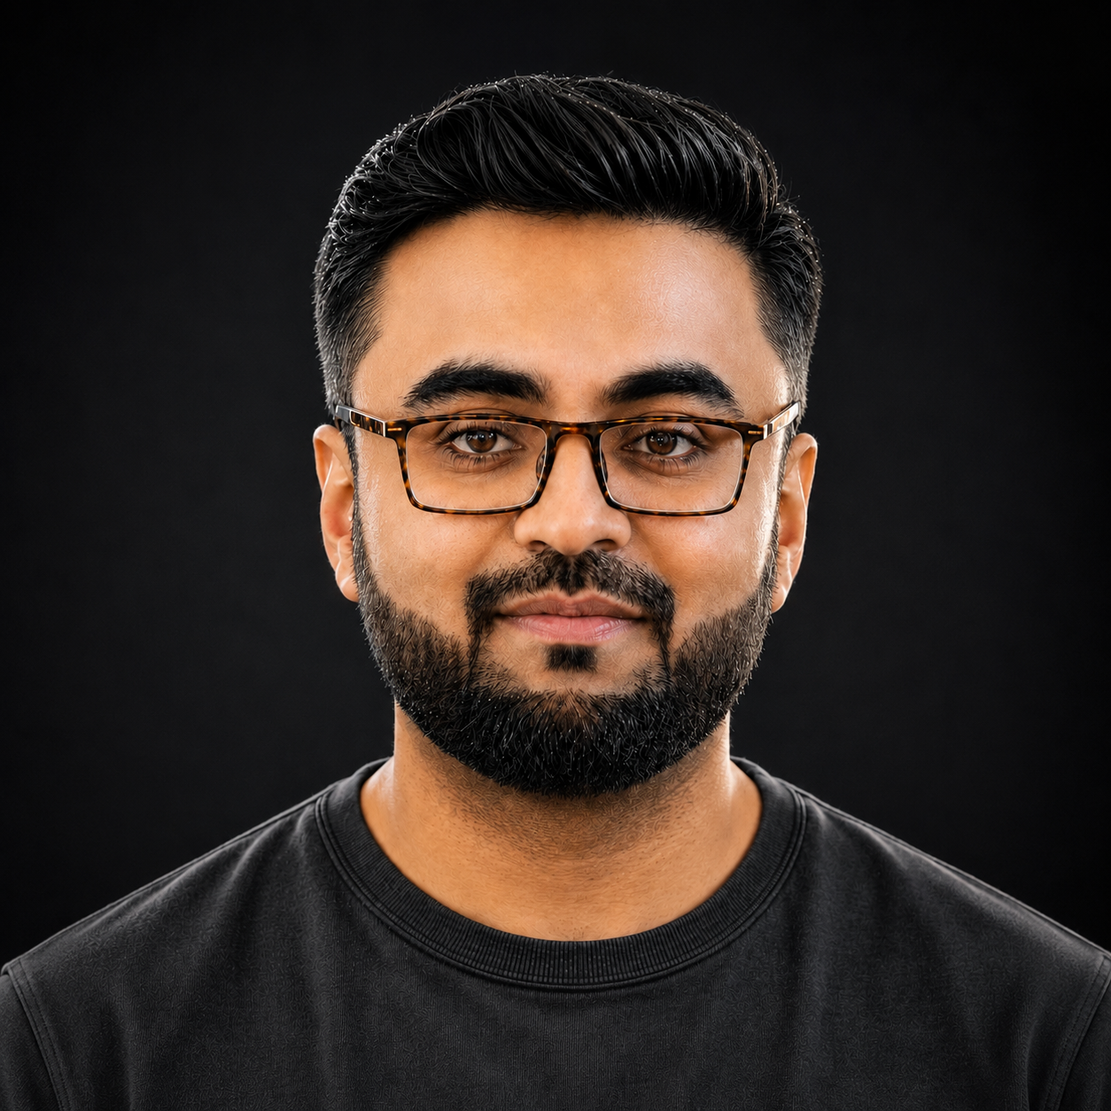
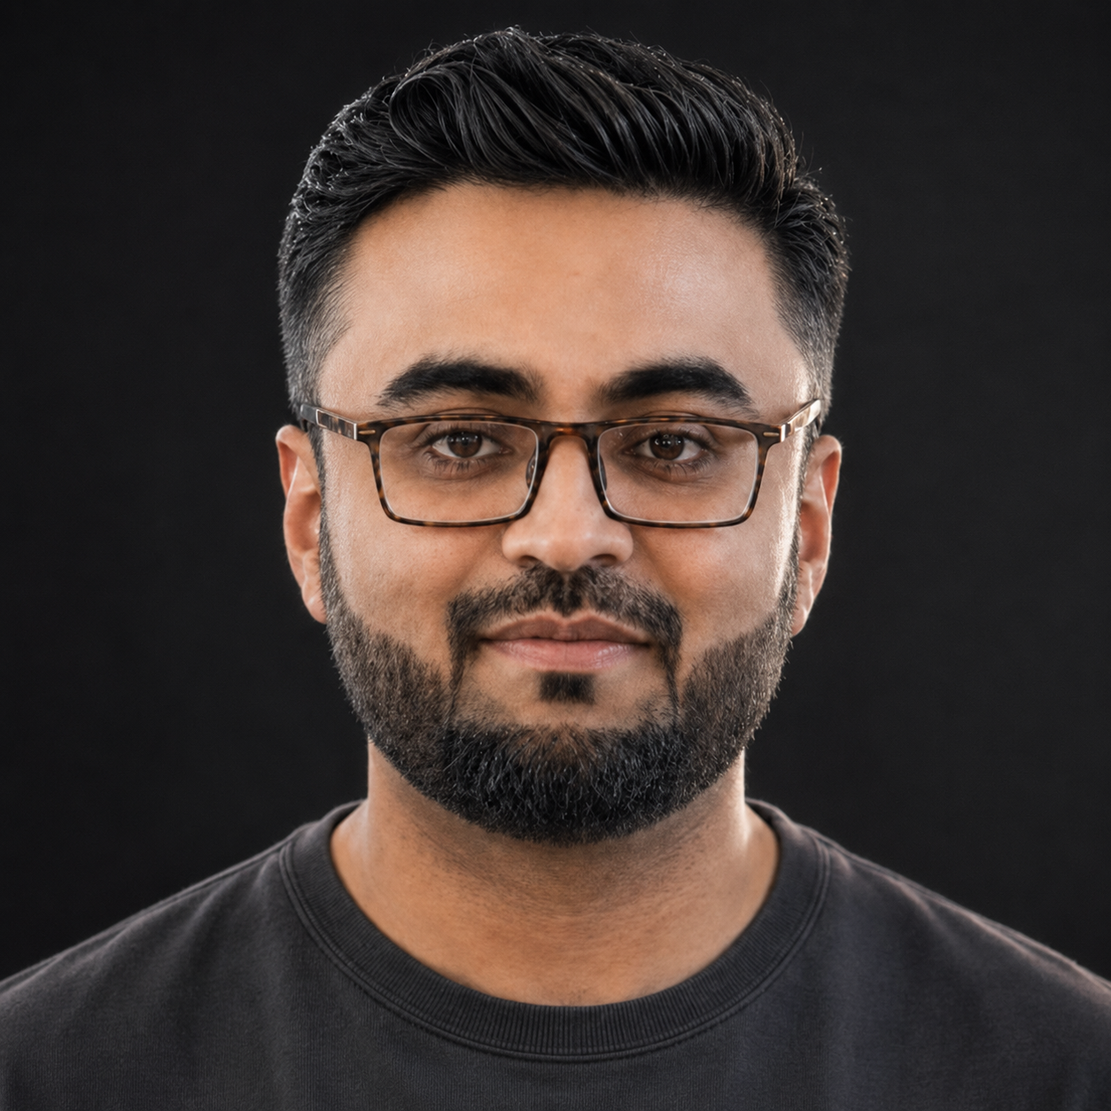
Update site to AI marketing positioning and current resume
Replace the ML-engineer version of the site with the marketing-focused
redesign, and align all content with the current resume:

- Role retitled to Technical Marketing Manager (Digital Warriors + hero)
- Capabilities recut to Performance Marketing, CRM & Automation,
  AI-Powered Marketing, Analytics & KPIs
- Growth section adds Meta Ads / Google Ads paid media row; metric
  ribbon now CTR, CPC, CPL, CVR, appointment rate, ROAS
- Skills regrouped to match the resume's four skill areas
- Experience bullets updated for all roles; education date simplified
- Metadata title, description and keywords updated for the new
  positioning; refreshed portrait and stylesheet

Claude-Session: https://claude.ai/code/session_01GNFiGoDcpkzP3N7UkKfKG4

diff --git a/app/page.tsx b/app/page.tsx
@@ -1,25 +1,78 @@
 import Image from "next/image";
 
-const aiCapabilities = [
-  ["01", "Production AI", "End-to-end AI delivery from data pipelines and model development through evaluation, monitoring, and deployment.", "LLM workflows · RAG · AI agents"],
-  ["02", "Intelligent Retrieval", "Semantic systems built around robust ingestion, embeddings, vector databases, and relevance-focused search.", "Embeddings · Vector DBs · Search"],
-  ["03", "Predictive Systems", "Machine-learning solutions for prediction and recommendation, designed for measurable product value.", "Prediction · Recommendation · Evaluation"],
-  ["04", "Software Leadership", "Hands-on technical direction across engineering teams, Agile delivery, backend systems, and product execution.", "Leadership · Backend · Agile"],
+const capabilities = [
+  ["01", "Performance Marketing", "Meta Ads and Google Ads campaigns across B2B and B2C, built to turn media spend into qualified leads, booked appointments, and revenue.", "Meta Ads · Google Ads · B2B & B2C"],
+  ["02", "CRM & Automation", "GoHighLevel funnels and SAP Cloud workflows for nurturing, follow-ups, appointment reminders, and pipeline movement that run without manual chasing.", "GoHighLevel · SAP Cloud · Pipelines"],
+  ["03", "AI-Powered Marketing", "LLMs, AI agents, and personalisation applied to lead response, qualification, engagement, and retention at campaign scale.", "LLMs · AI agents · Personalisation"],
+  ["04", "Analytics & KPIs", "CTR, CPC, CPL, conversion rate, appointment rate, and ROAS tracked end to end—so every decision to scale or cut is grounded in data.", "CPL · CVR · Appointment rate · ROAS"],
 ];
 
-const paidMedia = [
-  ["Platform proficiency", "Facebook & Meta Ads", "Campaign architecture across awareness, consideration, conversion, retargeting, and lookalike audiences—with disciplined budget allocation and bidding.", "Campaigns · Audiences · Bidding"],
-  ["Performance intelligence", "Analytics that explain", "Interpret CTR, CPC, CPA, ROAS, conversion rate, and attribution signals to diagnose performance drops and identify scalable winners.", "CTR · CPA · ROAS · Attribution"],
-  ["Experimentation", "Structured A/B testing", "Methodical tests across creative, ad copy, audiences, offers, placements, and landing pages—one clear hypothesis at a time.", "Creative · Copy · Landing pages"],
-  ["Cross-channel execution", "DSP & social strategy", "Audience targeting, campaign structures, pacing, frequency, and optimization across demand-side platforms and paid social networks.", "DSPs · Paid social · Targeting"],
+const growth = [
+  ["Paid media", "Meta Ads & Google Ads", "B2B and B2C campaigns structured around qualified lead volume and cost efficiency—including dental and healthcare lead-generation workflows.", "Meta · Google · Search & social"],
+  ["Lead generation", "Pipeline that fills itself", "Campaigns engineered to produce qualified leads and booked appointments, with lead quality judged on what converts—not on form fills.", "Leads · Appointments · Lead quality"],
+  ["Funnel management", "Conversion optimisation", "Landing pages, offers, and messaging tested one hypothesis at a time to lift conversion rate at every stage of the customer journey.", "Funnels · Offers · CRO"],
+  ["Lifecycle automation", "Nurture that never sleeps", "GoHighLevel email and SMS sequences, reminder logic, and re-engagement workflows that keep every enquiry moving toward a booking.", "Email · SMS · Reminders"],
+  ["Performance intelligence", "KPIs that explain", "CTR, CPC, CPL, conversion rate, appointment rate, and ROAS tracked end to end to improve media efficiency, revenue, and customer-base growth.", "CTR · CPC · CPL · ROAS"],
 ];
+
+const skillGroups = [
+  ["Performance Marketing", ["Meta Ads", "Google Ads", "B2B & B2C campaigns", "Lead generation", "Appointment setting", "Revenue growth", "Funnel optimisation", "Conversion optimisation"]],
+  ["CRM & Automation", ["GoHighLevel", "SAP Cloud", "CRM pipelines", "Lead nurturing", "Email & SMS workflows", "Marketing automation"]],
+  ["Analytics & KPIs", ["CTR", "CPC", "CPL", "Conversion rate", "ROAS", "Lead quality", "Appointment rate", "Revenue & funnel performance"]],
+  ["AI & Technical", ["LLMs", "AI agents", "Python", "JavaScript", "Node.js", "APIs", "PostgreSQL", "Machine learning", "Data analytics", "Agile project management"]],
+] as const;
 
 const experience = [
-  ["2024—NOW", "Machine Learning Engineer", "3DEX"],
-  ["2021—2023", "Software Engineering Team Lead", "Digital Warriors"],
-  ["2020—2021", "Back End Developer", "MicroAgility Services"],
-  ["2017—2020", "Back End Developer", "Digital Cervello"],
-  ["2016—2017", "Software Engineer", "TECHNOGENES"],
+  {
+    date: "APR 2024 — NOW",
+    place: "Irvine, California, USA · Remote",
+    role: "AI Marketing Leader",
+    company: "3DEX",
+    points: [
+      "Lead B2B and B2C performance campaigns across Meta Ads and Google Ads, focused on qualified lead generation, customer acquisition, booked appointments, and revenue growth.",
+      "Build and optimise GoHighLevel CRM funnels, lead nurturing, follow-ups, appointment reminders, and pipeline automation to move prospects from enquiry to booked appointment and conversion.",
+      "Use AI-powered automation, personalisation, and data-driven workflows to improve lead response, engagement, conversion, and customer retention.",
+      "Track and optimise CTR, CPC, CPL, conversion rate, appointment rate, and ROAS, using performance data to improve media efficiency, revenue, and customer-base growth.",
+    ],
+  },
+  {
+    date: "MAR 2021 — NOV 2023",
+    place: "Islamabad, Pakistan",
+    role: "Technical Marketing Manager",
+    company: "Digital Warriors",
+    points: [
+      "Led cross-functional marketing and technical projects, coordinating campaign requirements, delivery teams, timelines, and client expectations.",
+      "Managed B2B and B2C lead-generation campaigns, CRM processes, and marketing automation, with emphasis on qualified leads, appointment generation, and commercial outcomes.",
+      "Partnered with marketing, sales, and technical teams to analyse campaign KPIs, improve lead quality and conversion performance, and strengthen customer acquisition.",
+    ],
+  },
+  {
+    date: "JAN 2020 — FEB 2021",
+    place: "Islamabad, Pakistan",
+    role: "Back End Developer",
+    company: "MicroAgility Services (Pvt) Ltd.",
+    points: [
+      "Developed Node.js backend applications, APIs, and automation supporting customer-facing digital solutions and business workflows.",
+    ],
+  },
+  {
+    date: "NOV 2017 — JAN 2020",
+    place: "Islamabad, Pakistan",
+    role: "Back End Developer",
+    company: "Digital Cervello",
+    points: [
+      "Built and maintained Node.js/JavaScript backend systems and supported AI-enabled automation and scalable digital products.",
+    ],
+  },
+  {
+    date: "AUG 2016 — SEP 2017",
+    place: "Lahore, Pakistan",
+    role: "Software Engineer",
+    company: "TECHNOGENES",
+    points: [
+      "Developed software solutions and gained early hands-on experience in machine learning, AI, and data-driven applications.",
+    ],
+  },
 ];
 
 export default function Home() {
@@ -30,7 +83,7 @@ export default function Home() {
       <nav className="site-nav" aria-label="Primary navigation">
         <a className="wordmark" href="#top" aria-label="Syed Jaffar Raza home">SJR<i /></a>
         <div className="nav-links">
-          <a href="#expertise">Expertise</a><a href="#paid-media">Paid media</a><a href="#experience">Experience</a>
+          <a href="#capabilities">Capabilities</a><a href="#growth">Growth</a><a href="#skills">Skills</a><a href="#experience">Experience</a>
         </div>
         <a className="nav-cta" href="https://www.linkedin.com/in/jaffarrazasyed" target="_blank" rel="noreferrer">Let&apos;s connect ↗</a>
       </nav>
@@ -38,45 +91,73 @@ export default function Home() {
       <section className="hero" id="top">
         <div className="grid-bg" aria-hidden="true" /><div className="orb" aria-hidden="true" />
         <div className="hero-copy">
-          <p className="eyebrow reveal d1"><span className="status-dot" />Islamabad · Available for ambitious work</p>
-          <h1 className="reveal d2">Engineering intelligence.<br /><span>Scaling attention.</span></h1>
-          <p className="intro reveal d3">I&apos;m <strong>Syed Jaffar Raza</strong>—an AI software engineer building production-grade intelligent systems and applying performance thinking across paid digital growth.</p>
-          <div className="hero-actions reveal d4"><a className="button primary" href="#expertise">Explore my work ↓</a><a className="button ghost" href="https://www.linkedin.com/in/jaffarrazasyed" target="_blank" rel="noreferrer">LinkedIn ↗</a></div>
+          <p className="eyebrow reveal d1"><span className="status-dot" />Islamabad, Pakistan · Available for ambitious work</p>
+          <h1 className="reveal d2">Marketing that converts.<br /><span>Systems that scale.</span></h1>
+          <p className="intro reveal d3">I&apos;m <strong>Syed Jaffar Raza</strong>—an AI marketing leader and technical marketing manager with 9+ years across B2B and B2C growth, lead generation, appointment booking, campaign management, and CRM automation.</p>
+          <div className="hero-actions reveal d4"><a className="button primary" href="#capabilities">Explore my work ↓</a><a className="button ghost" href="https://www.linkedin.com/in/jaffarrazasyed" target="_blank" rel="noreferrer">LinkedIn ↗</a></div>
         </div>
         <aside className="portrait-wrap reveal d4" aria-label="Portrait and professional snapshot">
           <div className="portrait-ring" aria-hidden="true" />
           <div className="portrait-frame">
             <Image src={`${basePath}/syed-jaffar-raza.png`} alt="Portrait of Syed Jaffar Raza" width={1254} height={1254} priority unoptimized />
             <div className="portrait-shade" aria-hidden="true" />
-            <p className="portrait-name"><small>AI SOFTWARE ENGINEER</small><strong>Syed Jaffar Raza</strong></p>
+            <p className="portrait-name"><small>AI MARKETING LEADER</small><strong>Syed Jaffar Raza</strong></p>
           </div>
-          <div className="floating-badge badge-top"><span>9+</span><small>YEARS IN<br />SOFTWARE</small></div>
+          <div className="floating-badge badge-top"><span>9+</span><small>YEARS IN MARKETING<br />&amp; TECHNOLOGY</small></div>
           <div className="floating-badge badge-bottom"><i /><small>AVAILABLE FOR<br />COLLABORATION</small></div>
-          <div className="focus-strip"><span>RAG</span><span>AI AGENTS</span><span>META ADS</span></div>
+          <div className="focus-strip"><span>META ADS</span><span>GOOGLE ADS</span><span>GOHIGHLEVEL</span></div>
         </aside>
-        <div className="hero-foot"><span>AI SOFTWARE ENGINEER</span><b>×</b><span>PERFORMANCE MARKETING</span><b>×</b><span>PRODUCT DELIVERY</span></div>
+        <div className="hero-foot"><span>AI MARKETING LEADER</span><b>×</b><span>TECHNICAL MARKETING MANAGER</span><b>×</b><span>B2B &amp; B2C GROWTH</span></div>
       </section>
 
-      <section className="section expertise" id="expertise">
-        <div className="section-head"><p className="index">01 / CORE EXPERTISE</p><h2>From model to <em>momentum.</em></h2><p>I connect rigorous engineering with real-world delivery—building systems that are useful, observable, and ready to scale.</p></div>
-        <div className="cards">{aiCapabilities.map(([n,t,d,tags]) => <article className="card" key={n}><div className="card-num"><span>{n}</span><b>↗</b></div><h3>{t}</h3><p>{d}</p><small>{tags}</small></article>)}</div>
+      <section className="section expertise" id="capabilities">
+        <div className="section-head"><p className="index">01 / CORE CAPABILITIES</p><h2>From media spend to <em>booked revenue.</em></h2><p>AI-driven marketing and technology professional connecting paid media, CRM automation, and engineering rigour—turning spend into qualified leads, booked appointments, and a stronger customer base.</p></div>
+        <div className="cards">{capabilities.map(([n,t,d,tags]) => <article className="card" key={n}><div className="card-num"><span>{n}</span><b>↗</b></div><h3>{t}</h3><p>{d}</p><small>{tags}</small></article>)}</div>
       </section>
 
-      <section className="section paid" id="paid-media">
-        <div className="section-head"><p className="index">02 / GROWTH & PERFORMANCE</p><h2>Paid media with an <em>engineering mindset.</em></h2><p>Clean campaign structures, measurable hypotheses, and decisions grounded in performance data—not guesswork.</p></div>
-        <div className="media-list">{paidMedia.map(([k,t,d,s], i) => <article className="media-row" key={t}><span className="media-num">0{i+1}</span><div><small>{k}</small><h3>{t}</h3></div><p>{d}</p><b>{s}</b></article>)}</div>
-        <div className="metric-ribbon"><span>CTR</span><i /><span>CPA</span><i /><span>ROAS</span><i /><span>CVR</span><i /><span>ATTRIBUTION</span><i /><span>FREQUENCY</span></div>
+      <section className="section paid" id="growth">
+        <div className="section-head"><p className="index">02 / GROWTH & PERFORMANCE</p><h2>Demand generation with an <em>engineering mindset.</em></h2><p>Clean funnel structures, measurable hypotheses, and continuous KPI optimisation—decisions grounded in lead quality and conversion data, not guesswork.</p></div>
+        <div className="media-list">{growth.map(([k,t,d,s], i) => <article className="media-row" key={t}><span className="media-num">0{i+1}</span><div><small>{k}</small><h3>{t}</h3></div><p>{d}</p><b>{s}</b></article>)}</div>
+        <div className="metric-ribbon"><span>CTR</span><i /><span>CPC</span><i /><span>CPL</span><i /><span>CVR</span><i /><span>APPOINTMENT RATE</span><i /><span>ROAS</span></div>
       </section>
 
-      <section className="section systems"><p className="index">03 / TECHNOLOGY</p><div className="systems-grid"><h2>A versatile stack for <em>intelligent products.</em></h2><div className="stack">{["Python","Node.js","JavaScript","React.js","PostgreSQL","LLMs","RAG","Vector databases","Semantic search","Prompt engineering","Machine learning","AI APIs"].map((x,i)=><span className={i<5?"hot":""} key={x}>{x}</span>)}</div></div></section>
+      <section className="section systems" id="skills">
+        <p className="index">03 / CORE SKILLS</p>
+        <div className="systems-grid">
+          <h2>A full stack for <em>modern growth.</em></h2>
+          <div className="stack-groups">{skillGroups.map(([label, items]) => <div className="stack-group" key={label}><small>{label}</small><div className="stack">{items.map(x => <span key={x}>{x}</span>)}</div></div>)}</div>
+        </div>
+      </section>
 
       <section className="section experience" id="experience">
         <div className="section-head compact"><p className="index">04 / EXPERIENCE</p><h2>Built through <em>progression.</em></h2></div>
-        <div className="timeline">{experience.map(([date,role,company],i)=><article key={company}><span>0{i+1}</span><time>{date}</time><h3>{role}</h3><p>{company}</p></article>)}</div>
-        <div className="education"><small>EDUCATION</small><div><h3>Bachelor&apos;s in Computer Software Engineering</h3><p>Bahria University · 2012—2016</p></div><strong>BU</strong></div>
+        <div className="timeline">{experience.map((job, i) => (
+          <article key={job.company}>
+            <span>0{i+1}</span>
+            <div className="tl-meta"><time>{job.date}</time><p>{job.place}</p></div>
+            <div className="tl-body">
+              <h3>{job.role}</h3>
+              <p className="tl-company">{job.company}</p>
+              <ul>{job.points.map(point => <li key={point}>{point}</li>)}</ul>
+            </div>
+          </article>
+        ))}</div>
+        <div className="education"><small>EDUCATION</small><div><h3>Bachelor&apos;s Degree, Computer Software Engineering</h3><p>Bahria University · 2012 — 2016</p></div><strong>BU</strong></div>
       </section>
 
-      <footer><div><p className="index">LET&apos;S BUILD SOMETHING USEFUL</p><h2>Have a hard problem?</h2></div><a href="https://www.linkedin.com/in/jaffarrazasyed" target="_blank" rel="noreferrer">Start a conversation ↗</a><p className="copyright">© 2026 Syed Jaffar Raza · Islamabad, Pakistan</p></footer>
+      <section className="section publication" id="publication">
+        <div className="section-head compact"><p className="index">05 / SELECTED PUBLICATION</p><h2>Research that <em>informs practice.</em></h2></div>
+        <article className="paper">
+          <div>
+            <small>PEER-REVIEWED · 2025</small>
+            <h3>A Multidimensional, Transformer-Based Framework for Predicting Physician Popularity on Online Health Platforms</h3>
+            <p>Haya Saudi Journal of Life Sciences · 10(11), 773—790</p>
+          </div>
+          <a className="button ghost" href="https://doi.org/10.36348/sjls.2025.v10i11.009" target="_blank" rel="noreferrer">doi:10.36348/sjls.2025.v10i11.009 ↗</a>
+        </article>
+      </section>
+
+      <footer><div><p className="index">LET&apos;S BUILD SOMETHING THAT GROWS</p><h2>Need more qualified leads?</h2></div><a href="https://www.linkedin.com/in/jaffarrazasyed" target="_blank" rel="noreferrer">Start a conversation ↗</a><p className="copyright">© 2026 Syed Jaffar Raza · Islamabad, Pakistan · jeffreza.github.io</p></footer>
     </main>
   );
 }

diff --git a/app/globals.css b/app/globals.css
@@ -27,7 +27,14 @@ footer{min-height:520px;padding:105px clamp(22px,6vw,96px) 38px;display:grid;gri
 .floating-badge{position:absolute;z-index:4;padding:13px 15px;display:flex;align-items:center;gap:10px;background:rgba(8,11,10,.92);border:1px solid rgba(255,255,255,.24);box-shadow:0 14px 36px rgba(0,0,0,.4);backdrop-filter:blur(12px)}.floating-badge span{color:var(--teal);font-size:28px;font-weight:800;line-height:1}.floating-badge small{color:#f0f3f1;font:700 9px/1.45 var(--font-geist-mono),monospace;letter-spacing:.1em}.floating-badge i{width:10px;height:10px;border-radius:50%;background:var(--teal);box-shadow:0 0 14px var(--teal);animation:pulse 2s infinite}.badge-top{top:10%;right:-5%}.badge-bottom{bottom:34%;left:-6%}
 .focus-strip{position:absolute;z-index:4;right:0;bottom:2%;display:flex;gap:5px}.focus-strip span{padding:7px 9px;border:1px solid rgba(86,246,201,.35);background:rgba(8,11,10,.88);color:#e3fff7;font:700 9px var(--font-geist-mono),monospace;letter-spacing:.08em}
 .hero-foot{color:#b8beb9;font-weight:700}.section-head>p:last-child{font-size:17px;line-height:1.7}.card>p{color:#c4cac5;font-size:15px}.card small{color:#9ca49e}.timeline p{color:#c0c6c1}.stack span{color:#b8beb9}
+/* Marketing-led content: skill groups, detailed timeline, publication */
+.systems .index{margin-bottom:38px}.systems-grid{align-items:start}.stack-groups{display:grid;gap:30px}.stack-group>small{display:block;margin-bottom:13px;color:var(--teal);font:700 10px var(--font-geist-mono),monospace;letter-spacing:.14em;text-transform:uppercase}.stack-group .stack span{padding:11px 14px;font-size:11px}
+.timeline article{grid-template-columns:55px 200px minmax(0,1fr);gap:22px 30px;align-items:start;padding:34px 0}.timeline article:hover{color:inherit}.timeline article>span{padding-top:4px}
+.tl-meta{display:flex;flex-direction:column;gap:8px}.tl-meta time{display:block}.tl-meta p{margin:0;color:var(--dim);font:10px/1.6 var(--font-geist-mono),monospace;letter-spacing:.06em}
+.tl-body h3{margin:0 0 8px;transition:color .3s}.timeline article:hover .tl-body h3{color:var(--teal)}.tl-company{margin:0;color:var(--muted);font-size:15px;font-weight:600}
+.tl-body ul{margin:18px 0 0;padding:0;list-style:none;display:grid;gap:11px;max-width:820px}.tl-body li{position:relative;padding-left:20px;color:#c0c6c1;font-size:14px;line-height:1.68}.tl-body li::before{content:"";position:absolute;left:0;top:9px;width:6px;height:6px;border-radius:50%;background:rgba(86,246,201,.6)}
+.paper{display:grid;grid-template-columns:minmax(0,1fr) auto;gap:34px;align-items:center;padding:32px;border:1px solid rgba(86,246,201,.22);background:rgba(86,246,201,.045)}.paper>div>small{color:var(--teal);font:700 10px var(--font-geist-mono),monospace;letter-spacing:.14em}.paper h3{margin:14px 0 10px;max-width:820px;font-size:clamp(20px,2.1vw,29px);line-height:1.22;letter-spacing:-.035em;font-weight:560}.paper p{margin:0;color:var(--muted);font-size:15px}.paper a{white-space:nowrap;font:700 12px var(--font-geist-mono),monospace;letter-spacing:.02em}
 .reveal{opacity:0;transform:translateY(22px);animation:reveal .8s cubic-bezier(.2,.8,.2,1) forwards}.d1{animation-delay:.12s}.d2{animation-delay:.25s}.d3{animation-delay:.42s}.d4{animation-delay:.58s}@keyframes reveal{to{opacity:1;transform:none}}@keyframes pulse{50%{opacity:.35;transform:scale(.7)}}@keyframes breathe{50%{transform:translate3d(20px,-15px,0) scale(1.08)}}@keyframes spin{to{transform:rotate(360deg)}}
-@media(max-width:1050px){.hero{grid-template-columns:1fr}.portrait-wrap{width:min(100%,560px);justify-self:center}.section-head{grid-template-columns:1fr 2fr}.section-head>p:last-child{grid-column:2}.cards{grid-template-columns:repeat(2,1fr)}.media-row{grid-template-columns:45px .8fr 1.3fr}.media-row>b{display:none}}
-@media(max-width:720px){.site-nav{height:66px}.nav-links{display:none}.hero{padding-top:112px;gap:48px}.hero h1{font-size:clamp(48px,14vw,70px)}.intro{font-size:17px}.portrait-wrap{width:min(100%,430px)}.badge-top{right:0}.badge-bottom{left:0;bottom:32%}.focus-strip{right:2%}.hero-foot{display:none}.section{padding-top:85px;padding-bottom:85px}.section-head,.systems-grid,.section-head.compact{grid-template-columns:1fr;gap:24px}.section-head>p:last-child{grid-column:1}.cards{grid-template-columns:1fr}.card{min-height:320px}.media-row{grid-template-columns:34px 1fr;gap:12px}.media-row p{grid-column:2}.metric-ribbon{justify-content:flex-start}.timeline article{grid-template-columns:36px 1fr;gap:9px 14px}.timeline time,.timeline h3,.timeline p{grid-column:2}.education{grid-template-columns:1fr}.education strong{display:none}footer{grid-template-columns:1fr;gap:48px;min-height:620px}footer>a{justify-self:end;width:160px;height:160px}}
+@media(max-width:1050px){.hero{grid-template-columns:1fr}.portrait-wrap{width:min(100%,560px);justify-self:center}.section-head{grid-template-columns:1fr 2fr}.section-head>p:last-child{grid-column:2}.cards{grid-template-columns:repeat(2,1fr)}.media-row{grid-template-columns:45px .8fr 1.3fr}.media-row>b{display:none}.systems-grid{gap:46px}.timeline article{grid-template-columns:46px 165px minmax(0,1fr);gap:18px 22px}.paper{grid-template-columns:1fr;gap:26px}.paper a{justify-self:start}}
+@media(max-width:720px){.site-nav{height:66px}.nav-links{display:none}.hero{padding-top:112px;gap:48px}.hero h1{font-size:clamp(48px,14vw,70px)}.intro{font-size:17px}.portrait-wrap{width:min(100%,430px)}.badge-top{right:0}.badge-bottom{left:0;bottom:32%}.focus-strip{right:2%}.hero-foot{display:none}.section{padding-top:85px;padding-bottom:85px}.section-head,.systems-grid,.section-head.compact{grid-template-columns:1fr;gap:24px}.section-head>p:last-child{grid-column:1}.cards{grid-template-columns:1fr}.card{min-height:320px}.media-row{grid-template-columns:34px 1fr;gap:12px}.media-row p{grid-column:2}.metric-ribbon{justify-content:flex-start}.timeline article{grid-template-columns:36px minmax(0,1fr);gap:12px 14px;padding:28px 0}.tl-meta,.tl-body{grid-column:2}.tl-body ul{gap:12px}.paper{padding:26px}.education{grid-template-columns:1fr}.education strong{display:none}footer{grid-template-columns:1fr;gap:48px;min-height:620px}footer>a{justify-self:end;width:160px;height:160px}}
 @media(prefers-reduced-motion:reduce){html{scroll-behavior:auto}*,*::before,*::after{animation-duration:.01ms!important;animation-iteration-count:1!important;transition-duration:.01ms!important}}

diff --git a/app/layout.tsx b/app/layout.tsx
@@ -3,9 +3,41 @@ import "./globals.css";
 
 const basePath = process.env.NEXT_PUBLIC_BASE_PATH ?? "";
 
+const title = "Syed Jaffar Raza | AI Marketing Leader & Technical Marketing Manager";
+const description =
+  "AI marketing leader and technical marketing manager in Islamabad with 9+ years across B2B and B2C growth, Meta Ads and Google Ads, lead generation, appointment booking, and CRM automation with GoHighLevel and SAP Cloud.";
+
 export const metadata: Metadata = {
-  title: "Syed Jaffar Raza | AI Software Engineer",
-  description: "AI software engineer specializing in production LLM workflows, RAG, machine learning, backend systems, Facebook Ads, DSP strategy, and performance marketing.",
+  title,
+  description,
+  keywords: [
+    "AI marketing leader",
+    "technical marketing manager",
+    "Meta Ads",
+    "Google Ads",
+    "B2B marketing",
+    "B2C marketing",
+    "lead generation",
+    "appointment booking",
+    "GoHighLevel",
+    "CRM automation",
+    "marketing automation",
+    "ROAS",
+    "Islamabad",
+  ],
+  authors: [{ name: "Syed Jaffar Raza" }],
+  openGraph: {
+    title,
+    description,
+    type: "profile",
+    locale: "en_US",
+    siteName: "Syed Jaffar Raza",
+  },
+  twitter: {
+    card: "summary_large_image",
+    title,
+    description,
+  },
   icons: {
     icon: `${basePath}/favicon.svg`,
     shortcut: `${basePath}/favicon.svg`,
